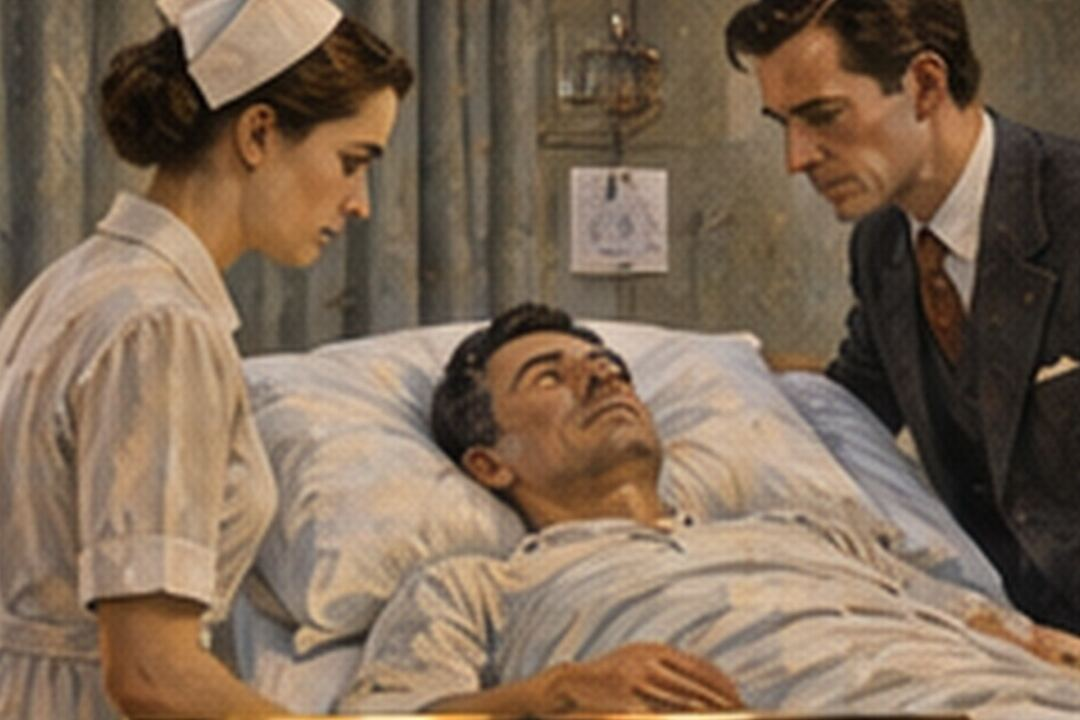
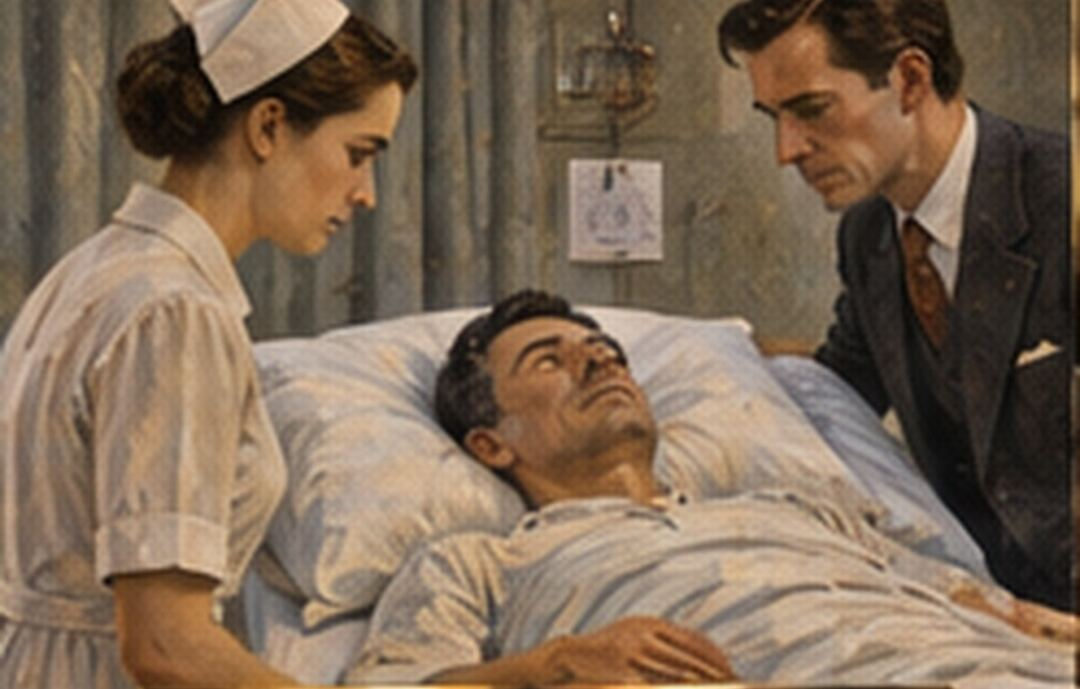
v132: ilustraciones de eventos con todo su ancho
- A 12 ilustraciones se les habían recortado los lados al quitarles el
  rótulo y forzarlas a 3:2: el funeral sencillo había perdido al sacerdote,
  el de pompa a los guardias, la boda de élite los ramos. Se vuelven a
  exportar desde los originales con todo el ancho, quitando solo el rótulo.
- Cada ilustración se muestra con su proporción natural (sin forzar 3:2),
  completa y centrada, con ancho máximo de 540 px.

Claude-Session: https://claude.ai/code/session_01QDo93uy3JsM1QuNxqwEBqb

diff --git a/index.html b/index.html
@@ -982,7 +982,7 @@ svg.foto116{display:block;background:#1d2a23}
 </style>
 <style id="estilos-v120">
 .momento120{margin:-4px auto 14px;max-width:min(100%,540px);border-radius:12px;overflow:hidden;position:relative;box-shadow:0 10px 30px rgba(0,0,0,.35),0 0 0 1px rgba(214,166,72,.35)}
-.momento120 img{display:block;width:100%;height:auto;aspect-ratio:3/2;object-fit:contain;filter:saturate(.92) contrast(1.02)}   /* v124: completa, sin recortar */
+.momento120 img{display:block;width:100%;height:auto;filter:saturate(.92) contrast(1.02)}   /* v124: completa, sin recortar */
 .momento120 figcaption{position:absolute;left:0;right:0;bottom:0;padding:22px 14px 10px;font-family:var(--display);font-size:15px;letter-spacing:.04em;color:#F6EBD3;background:linear-gradient(transparent,rgba(16,12,8,.78))}
 .lienzo.momento120caja{max-width:620px}
 </style>
@@ -1000,7 +1000,7 @@ svg.foto116{display:block;background:#1d2a23}
 </head>
 <body>
 
-<div class="version-badge" id="versionBadge">v131</div>
+<div class="version-badge" id="versionBadge">v132</div>
 
 <div id="portada" class="wrap portada">
   <div class="marca">Sociedad<em>Anónima</em></div>
